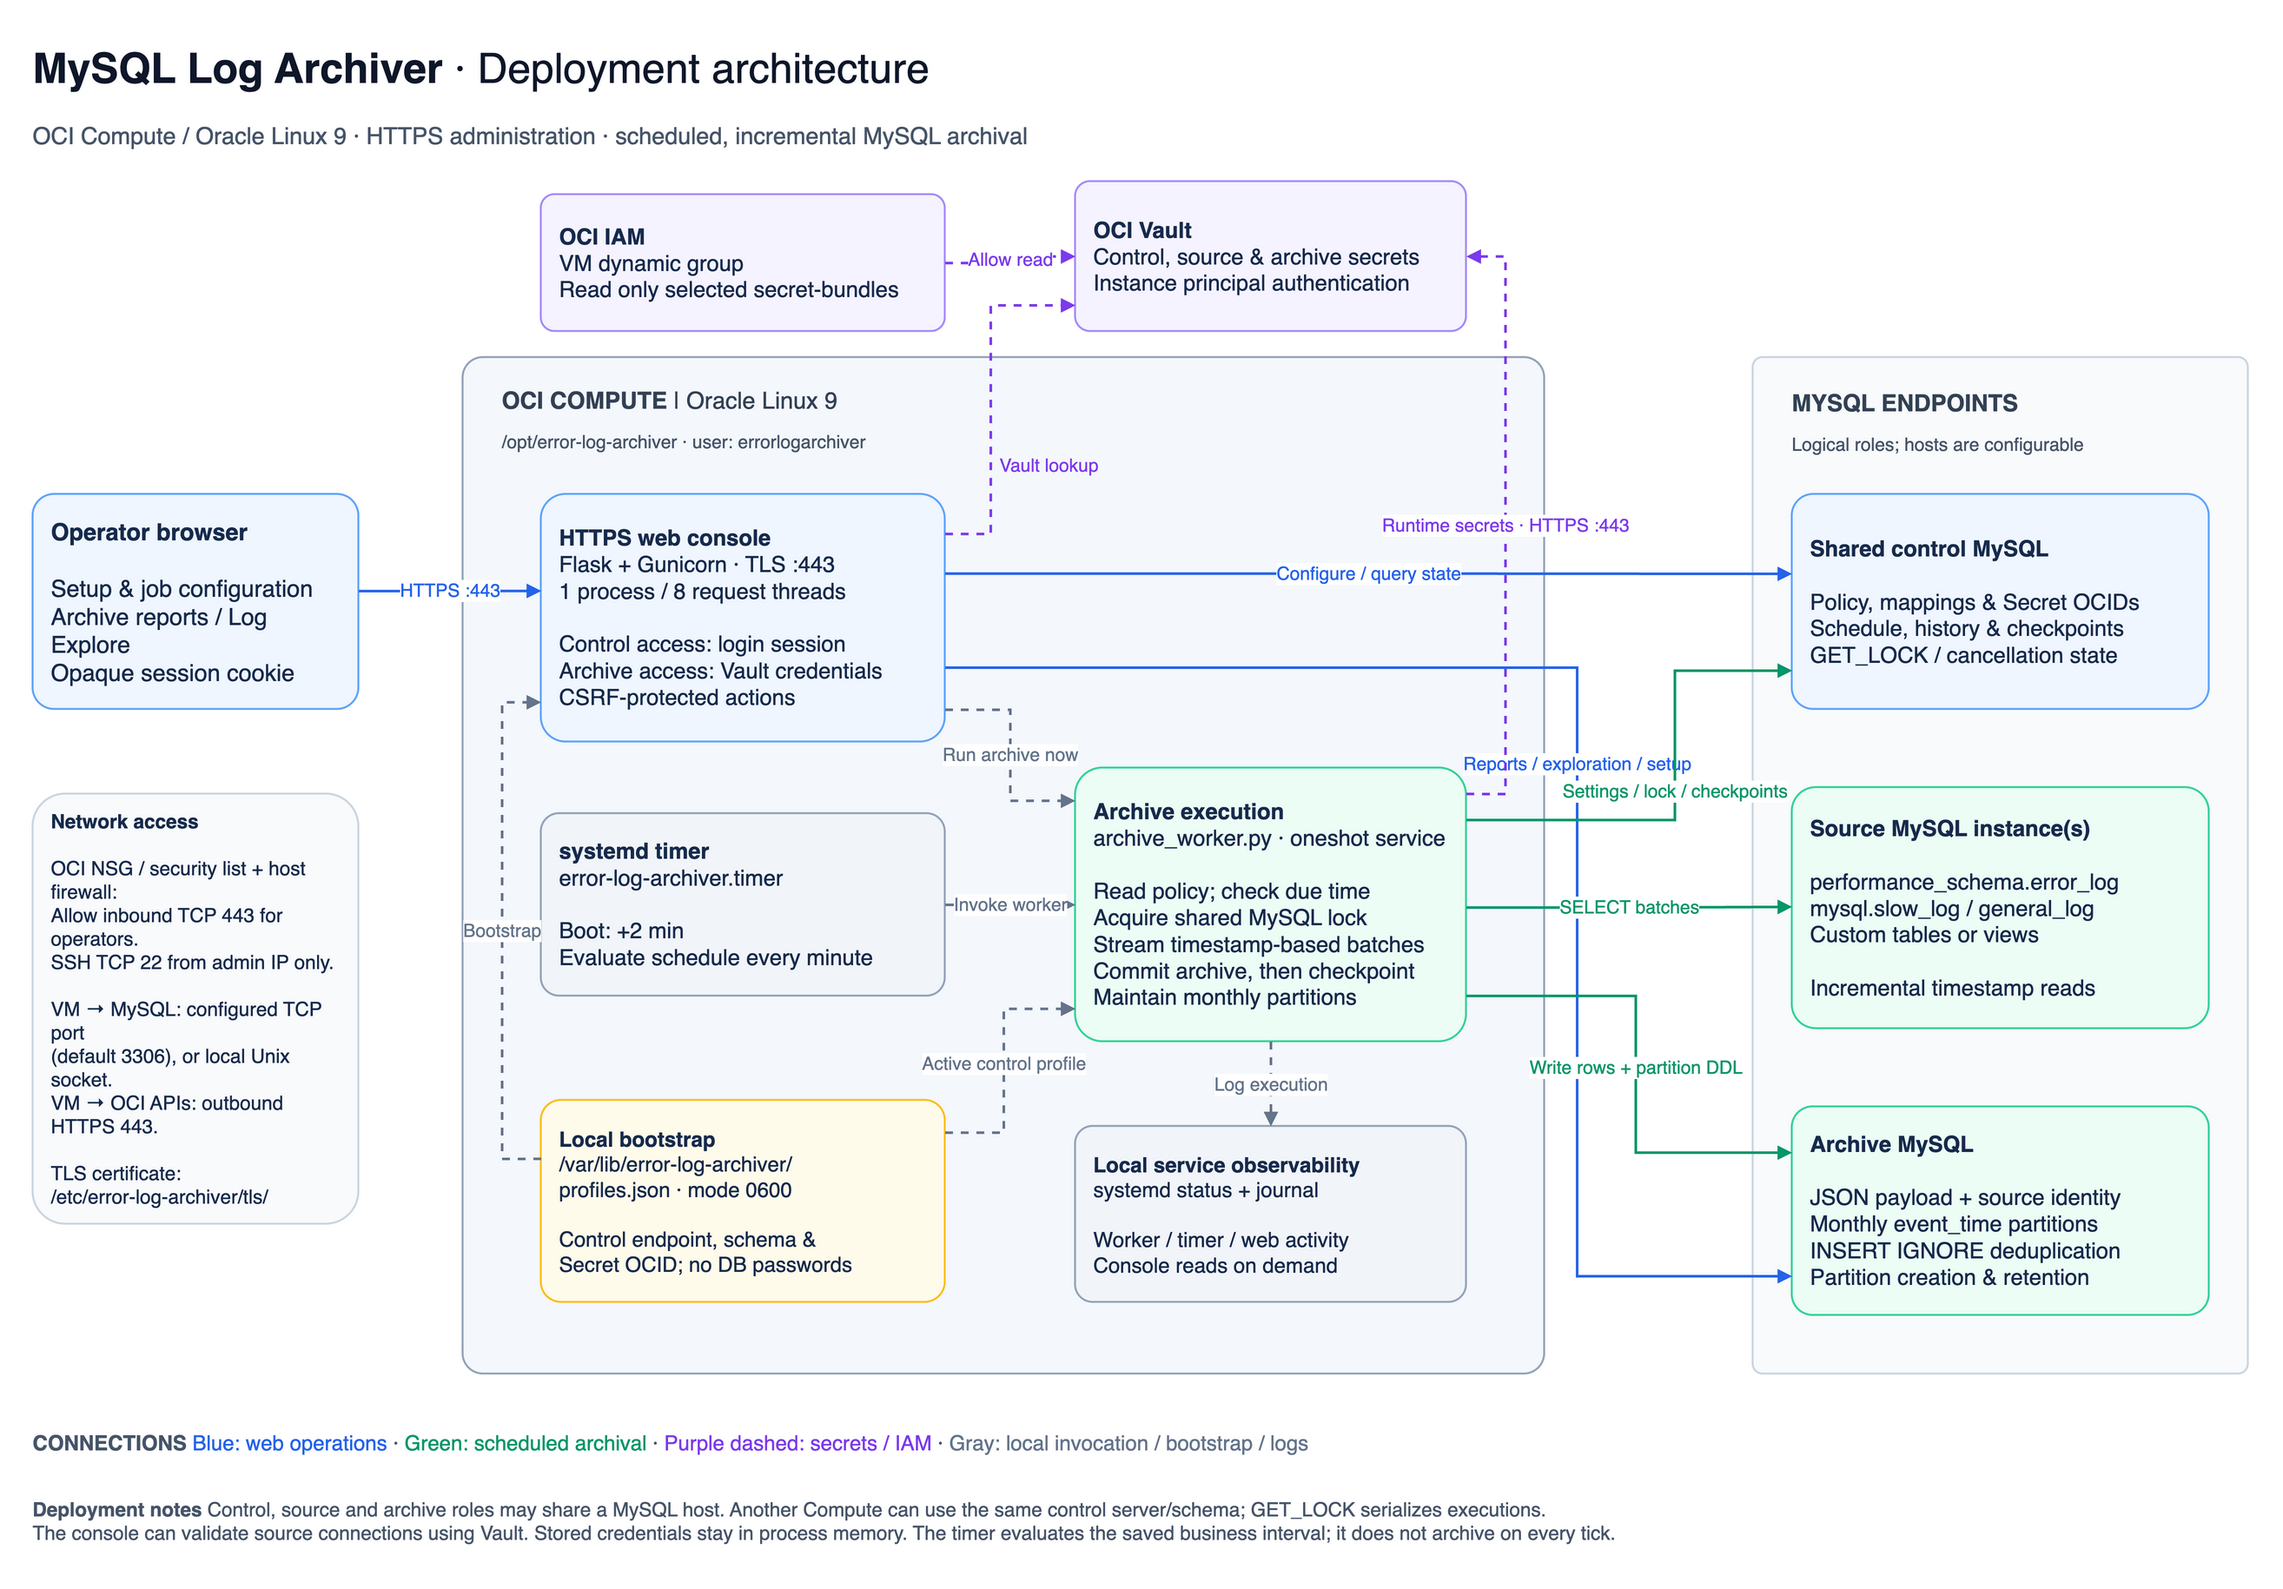
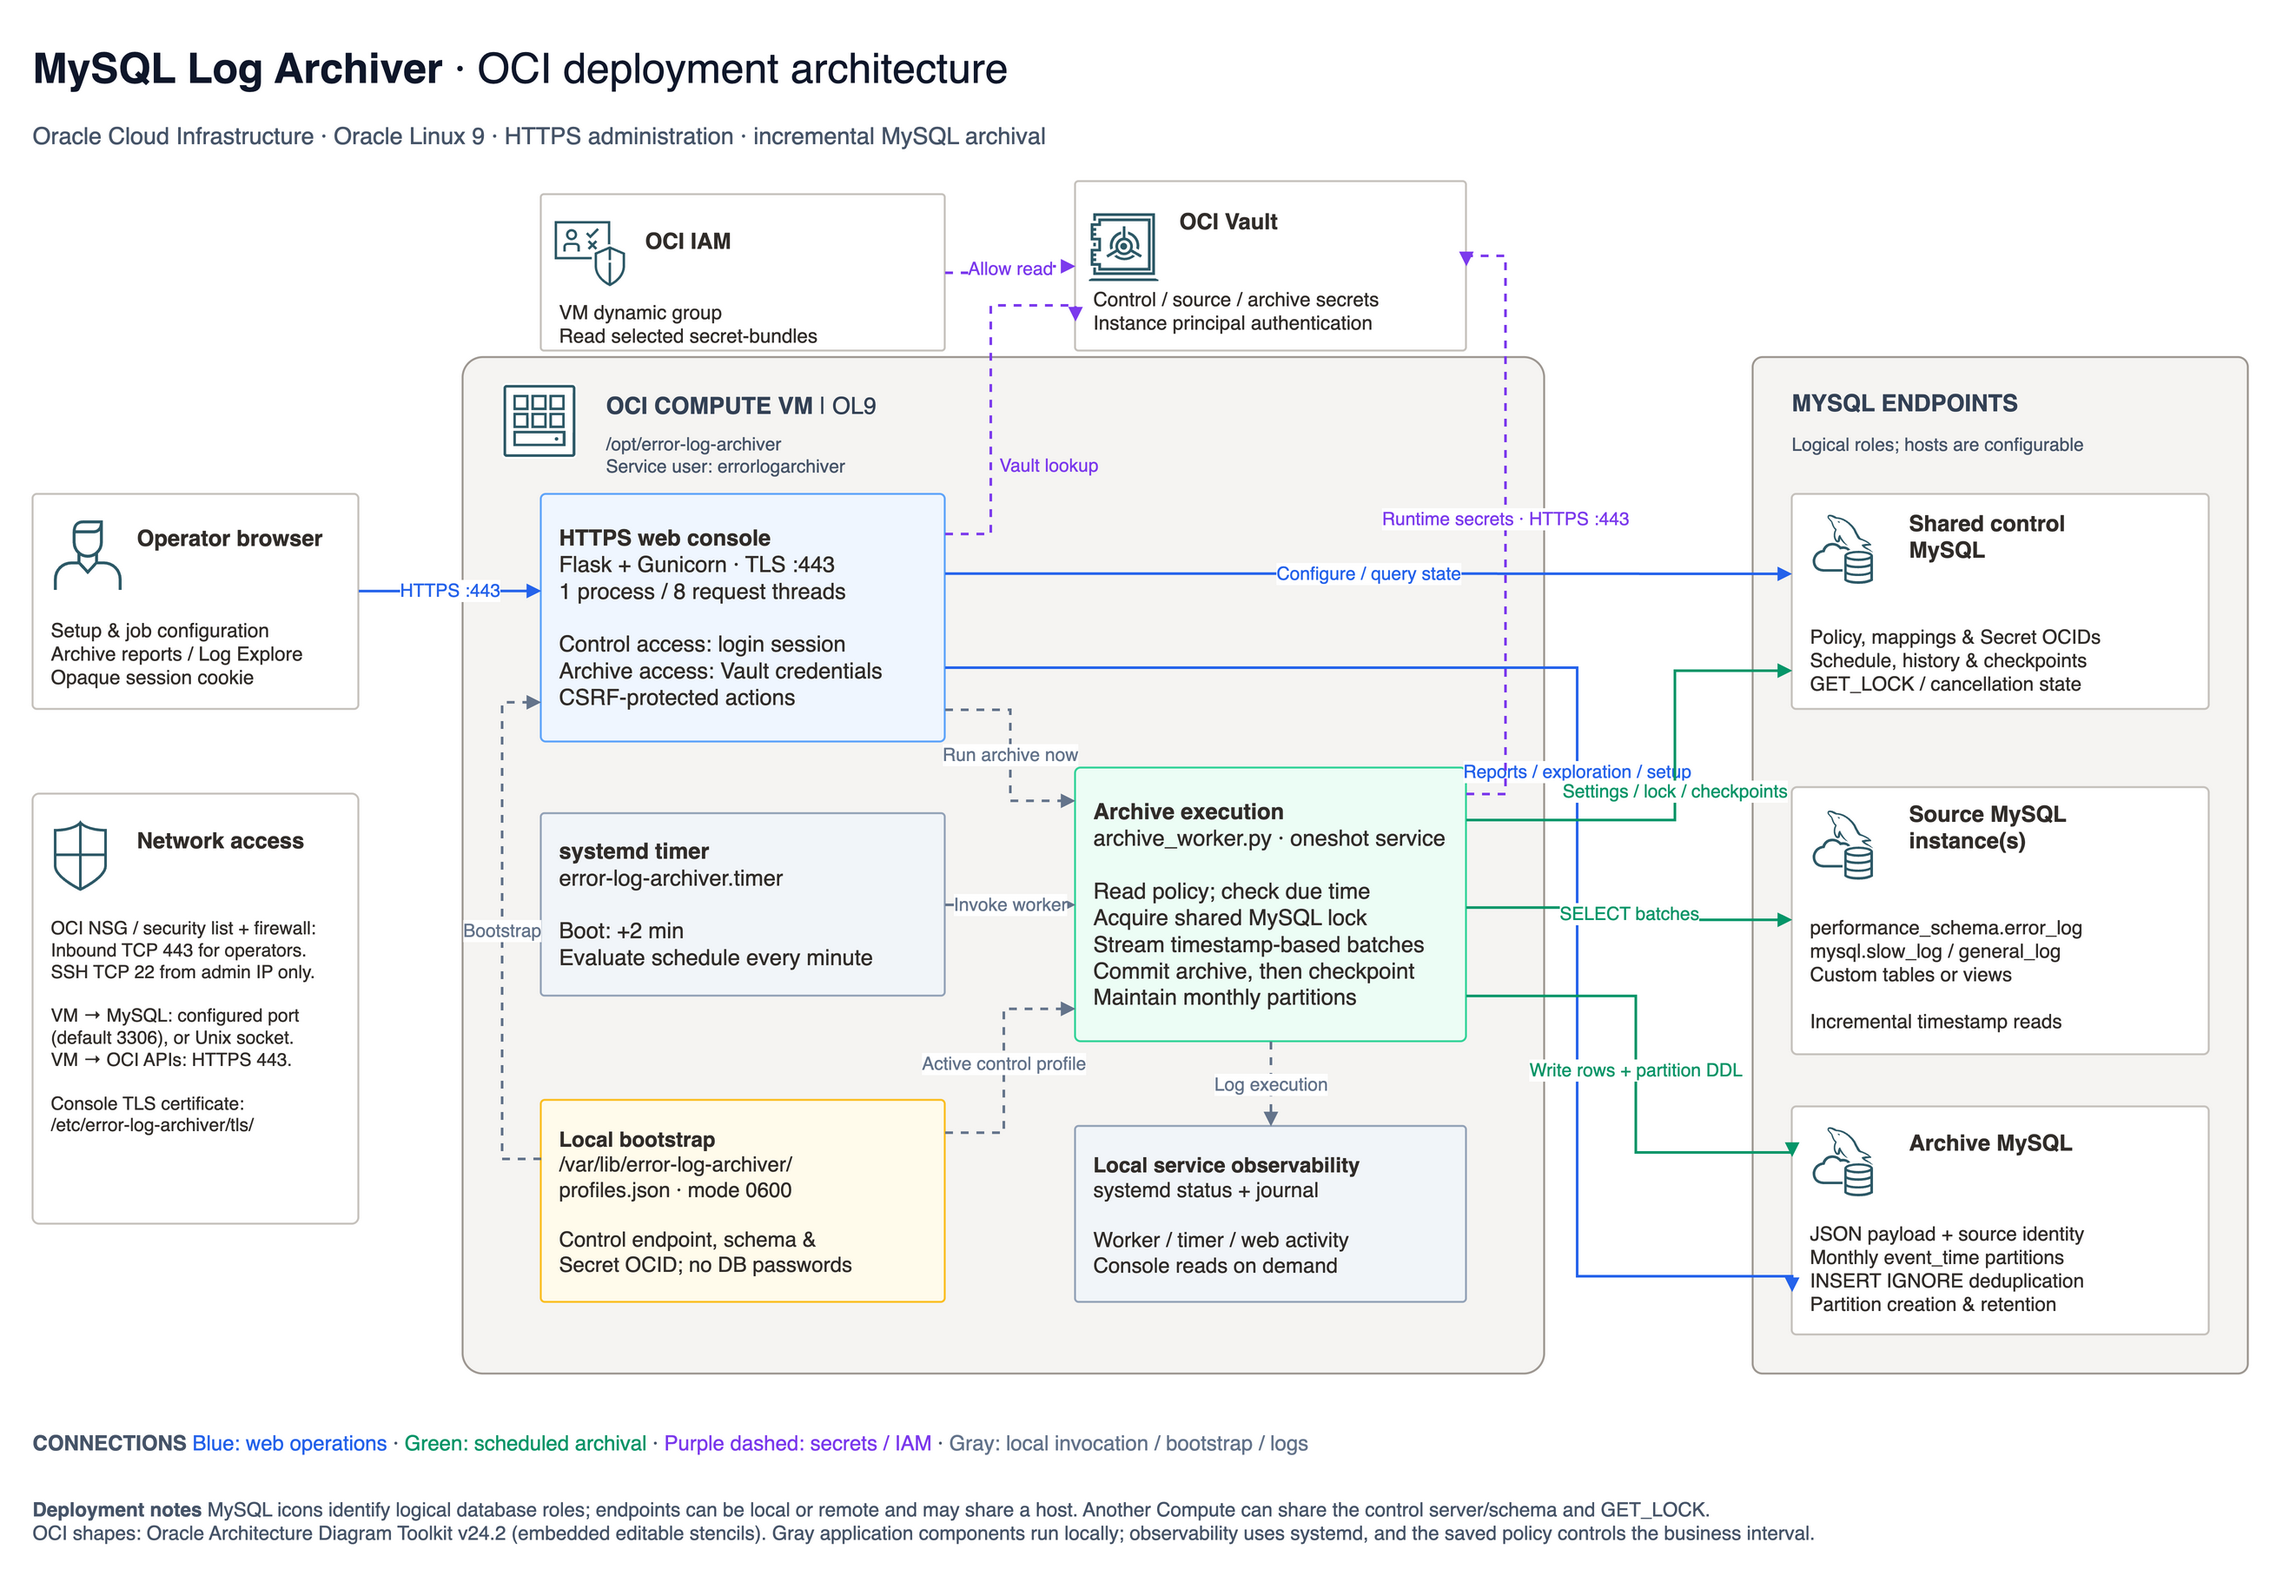
docs: recreate deployment diagram with official OCI library

diff --git a/docs/log-archiving-detailed-architecture.md b/docs/log-archiving-detailed-architecture.md
@@ -22,6 +22,8 @@ The deployment diagram shows the OCI Compute services, OCI Vault/IAM, MySQL role
 
 Open the [editable draw.io diagram](diagrams/deployment-architecture.drawio) in draw.io Desktop or diagrams.net to update it. After editing, export its PNG preview to `diagrams/deployment-architecture.png` so this document displays the current architecture.
 
+The diagram uses official Compute VM, MySQL, IAM, Vault, user, and NSG shapes from [Oracle's OCI Architecture Diagram Toolkit](https://docs.oracle.com/en-us/iaas/Content/General/Reference/graphicsfordiagrams.htm) (v24.2). The editable vector shapes are embedded in the diagram. To reuse them, choose **File → Open Library from → Device** in draw.io and select the companion [OCI deployment library](diagrams/oci-deployment-library.xml). MySQL icons represent configurable database roles; the diagram does not require Oracle-managed MySQL endpoints. The web console, scheduler, worker, bootstrap file, and systemd journal are local application components on the VM.
+
 The web service runs on HTTPS port 443 as a non-root service user. The systemd unit grants only `CAP_NET_BIND_SERVICE` for the privileged listener port. The archive worker is a separate, one-shot systemd service invoked by a persistent timer.
 
 The local `profiles.json` bootstraps the control connection using its endpoint, schema, and credential Secret OCID. The shared control schema stores job policy, mappings, schedule state, execution history, checkpoints, and cancellation state. Source and archive endpoints are independently configurable; the three MySQL roles can share a host. Additional Compute instances can use the same control server and schema, with a shared MySQL `GET_LOCK` preventing overlapping executions.
